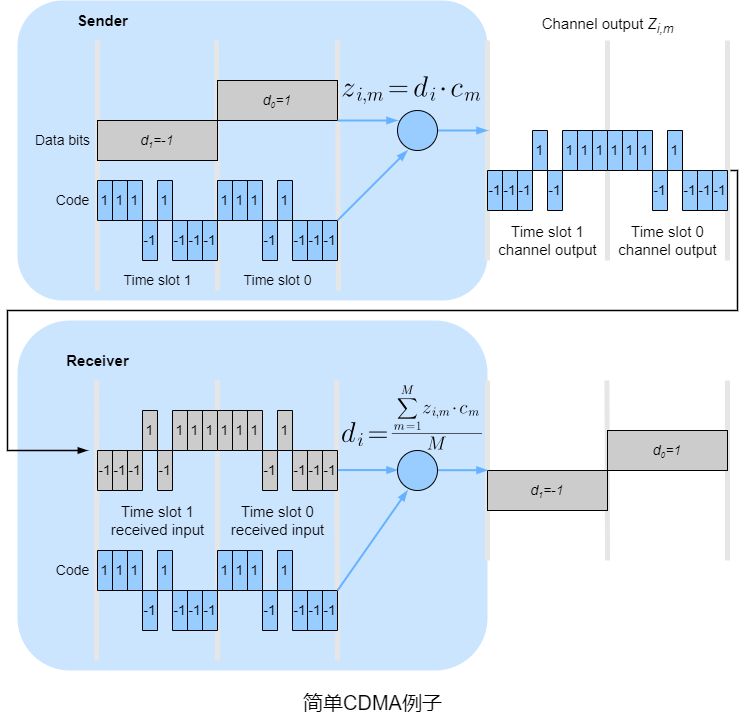
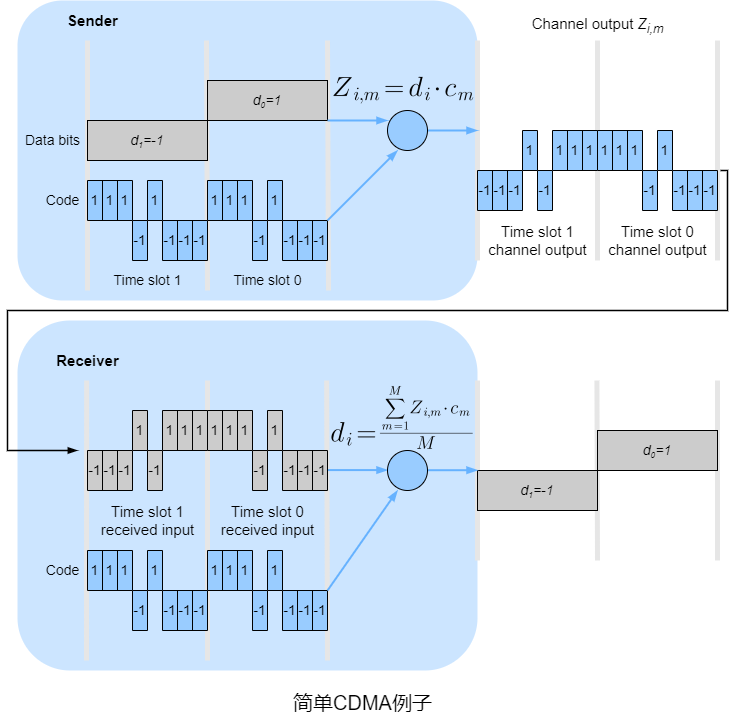
computer networking

diff --git a/computer-networking/computer-networking.md b/computer-networking/computer-networking.md
@@ -1549,6 +1549,18 @@ $$
 
 		另一种信道划分协议是**码分多址**，码分多址对每个节点分配了不同的编码，每个节点使用它的唯一编码来对待发送的数据进行编码。若精心选择编码，码分多址既可以保证不同节点同时传输，又可以保证它们对应的接收端仍能正确地接收数据。
 
+		在CDMA协议中，发送端的每个比特都通过乘一个信号(编码)进行编码，该信号的变化速度(称为**码片速率**)比初始数据比特序列的变化速率快很多。
+
+![sample_cmda_example](img/sample_cmda_example.png)
+
+		假设初始数据比特达到CDMA编码器的速率定义了时间单位，即每个待发送的初始数据比特需要1比特的时隙。为了数学上的便利，这里用$-1$代替$0$。$d_i$表示第$i$个比特时隙中的数据比特值。每个比特时隙进一步细分为$M$个微时隙(这里$M=8$，实际中$M$的值大得多)。发送端使用CDMA编码由$M$个值的一个序列$c_m$组成。
+
+		对于$d_i$比特传输时的第$m$微时隙，CDMA编码器的输出$Z_{i,m}=d_i\cdot c_m$。在没有其他发送端的干扰时，接收端将收到比特$Z_{i,m}$并恢复成初始的数据比特$d_i=\frac{\sum_{m=1}^MZ_{i,m}\cdot c_m}{M}$。
+
+![two-sender_cmda_example	](img/two-sender_cmda_example.png)
+
+		实际中干扰在所难免，CDMA在原始数据比特与干扰比特传输信号是相加的假设下工作。相比无干扰情况，接收端收到比特的值是所有发送端传输的比特总和$Z_{i,m}^*=\sum_{s=1}^NZ_{i,m}^s$。
+
 ##### 6.2.2 随机接入协议
 
 		随机接入协议中，节点总是以信道的最高速度$R(b/s)$进行传输，当发送碰撞时，涉及碰撞的每个节点都会重传直到无碰撞为止。当节点发生碰撞时，它不一定立即重传，它会==等待随机时延==后重传。涉及碰撞的节点都独立地选择随机时延。
@@ -1913,9 +1925,7 @@ $$
 
 		物理层调制技术的动态选择可用于适配信道条件的调制技术。
 
-![sample_cmda_example](img/sample_cmda_example.png)
-
-
+#### 6.2 WiFi
 
 ### 附录1 专业术语
 
@@ -2012,6 +2022,8 @@ $$
 > **channel partitioning protocol** 信道划分协议
 >
 > **channel propagation delay** 信道传播时延
+>
+> **chipping rate** 码片速率
 >
 > **choke packet** 抑制分组
 >
